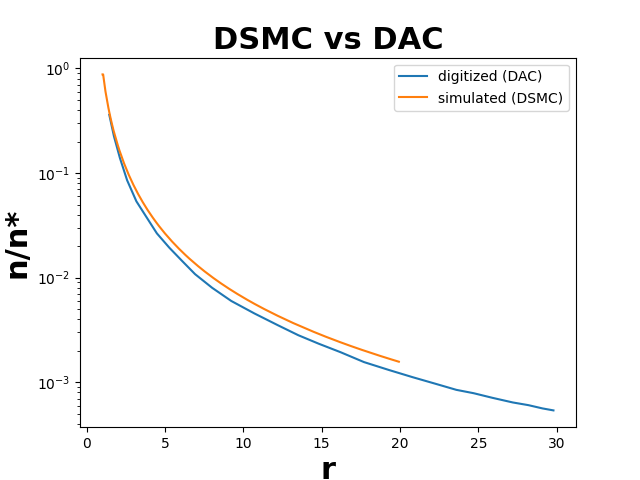
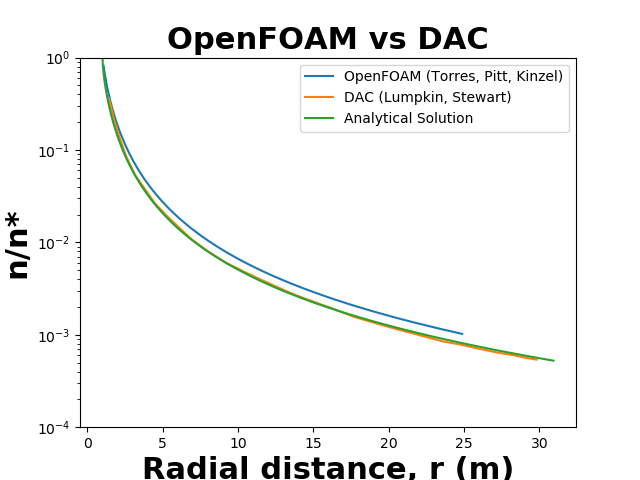
1d: update validation graphs to include proper comparison between analytical, DAC, and OpenFOAM data

diff --git a/cases/1d/graphCaseValidation.py b/cases/1d/graphCaseValidation.py
@@ -26,7 +26,7 @@ digi_n = pd.read_csv(
     )
 
 digi_T = pd.read_csv(
-    curr_dir_path + '/T_Tstar_radius.dat',
+    curr_dir_path + '/T_Tstar_radius_DAC.dat',
     header = 0,
     sep = '\t',
     names = ['r', 'T_Tstar']
@@ -60,35 +60,38 @@ def nnt_Ma(Ma, ga = 1.4):
 def a(T, ga = 1.4, R = 287):
     return np.sqrt(ga * R * T)
 
-Ma_domain = np.linspace(1, 10.5, 100)
-TTt = TTt_Ma(Ma_domain)
-rrt = rrt_Ma(Ma_domain)
-nnt = nnt_Ma(Ma_domain)
+Ma_domain = np.linspace(1, 25, 100) 
+ga = 1.67
+TTt = TTt_Ma(Ma_domain, ga = ga)
+rrt = rrt_Ma(Ma_domain, ga = ga)
+nnt = nnt_Ma(Ma_domain, ga = ga)
 
 print("Printing rrt")
 print(rrt)
 
 # Graph Results
-plt.title('DSMC vs DAC', fontdict = font_axis_publish)
+plt.title('OpenFOAM vs DAC', fontdict = font_axis_publish)
 plt.ylabel('n/n*', fontdict = font_axis_publish)
-plt.xlabel('r', fontdict = font_axis_publish)
+plt.xlabel('Radial distance, r (m)', fontdict = font_axis_publish)
 
-plt.plot(digi_n['r'], digi_n['n_nstar'], label = 'digitized (DAC)')
-plt.plot(sim['x'], sim['rhoN_Ar'], label = 'simulated (DSMC)')
-plt.plot(rrt, nnt, label = 'analytical (Isentropic Expansion)')
+plt.plot(sim['x'], sim['rhoN_Ar'], label = 'OpenFOAM (Torres, Pitt, Kinzel)')
+plt.plot(digi_n['r'], digi_n['n_nstar'], label = 'DAC (Lumpkin, Stewart)')
+plt.plot(rrt, nnt, label = 'Analytical Solution')
 plt.legend()
 plt.yscale('log')
+plt.ylim(bottom = 1e-4, top = 1)
 plt.savefig(curr_dir_path + '/digitized_vs_analytical_n.png')
 plt.close()
 
-plt.title('DSMC vs DAC', fontdict = font_axis_publish)
+plt.title('OpenFOAM vs DAC', fontdict = font_axis_publish)
 plt.ylabel('T/T*', fontdict = font_axis_publish)
-plt.xlabel('r', fontdict = font_axis_publish)
+plt.xlabel('Radial distance, r (m)', fontdict = font_axis_publish)
 
-plt.plot(digi_T['r'], digi_T['T_Tstar'], label = 'digitized (DAC)')
-plt.plot(sim['x'], sim['Ttra_Ar'], label = 'simulated (DSMC)')
-plt.plot(rrt, TTt, label = 'analytical (Isentropic Expansion)')
+plt.plot(sim['x'], sim['Ttra_Ar'], label = 'OpenFOAM (Torres, Pitt, Kinzel)')
+plt.plot(digi_T['r'], digi_T['T_Tstar'], label = 'DAC (Lumpkin, Stewart)')
+plt.plot(rrt, TTt, label = 'Analytical Solution')
 plt.legend()
 plt.yscale('log')
+plt.ylim(bottom = 1e-3, top = 1)
 plt.savefig(curr_dir_path + '/digitized_vs_analytical_T.png')
 plt.close()
